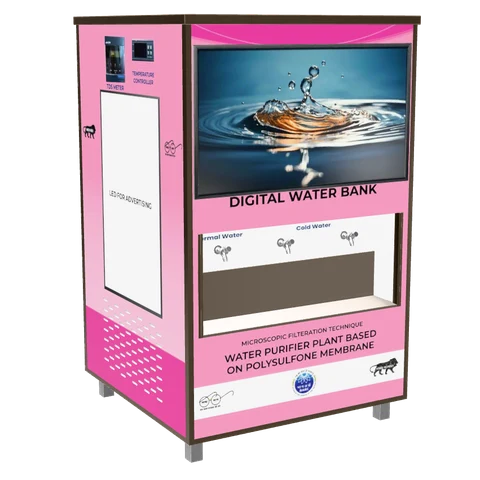
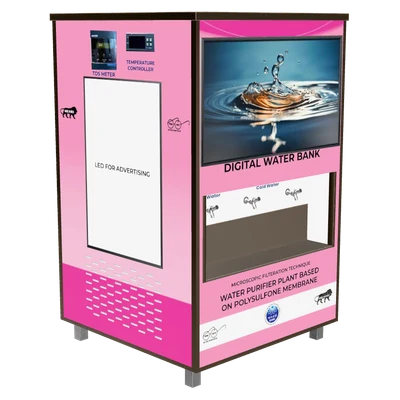
feat(imagery): slow pans with finish switching instead of 360° turntables
Full rotations read as toys; the cards now pan slowly (~30° arc) and, where
the product has real finishes, cycle them — each finish pans one way and
cross-fades into the next panning back, so motion never stops:

- Sofa: native beige → violet → pink → cream velvet
- Wardrobe: Maple Dark → Amalfi Oak Light → Cadiz Walnut → Flagstaff oak
- Water cooler: Pink → Sky Blue → White Marble → Green
- Studio apartment: pan only (its variants are camera views)

Door (variant switch) and laminates (veneer switch) unchanged. Stills and
the four affected industry OGs regenerated.

diff --git a/src/lib/industries.ts b/src/lib/industries.ts
@@ -105,11 +105,11 @@ export const INDUSTRIES: Industry[] = [
     heroDemo: 'ar',
     demoModel: '/models/furniture-vase.glb',
     demoPoster: '/models/furniture-vase-poster.webp',
-    // admin.thridify.com/p/1fxaka — Store Living Room Sofa (turntable)
+    // admin.thridify.com/p/1fxaka — Store Living Room Sofa: slow pan cycling its velvet finishes
     hubArt: {
       still: '/models/hub-furniture-still.webp',
       turn: '/models/hub-furniture-turn.webp',
-      alt: 'Store Living Room Sofa — a Thridify 3D product, rotating',
+      alt: 'Store Living Room Sofa — a Thridify 3D product panning slowly while its velvet finish changes',
     },
     primaryKeyword: '3D furniture configurator',
     keywords: [
@@ -181,11 +181,11 @@ export const INDUSTRIES: Industry[] = [
     heroDemo: 'configurator',
     demoModel: '/models/kitchen-teacup.glb',
     demoPoster: '/models/kitchen-teacup-poster.webp',
-    // admin.thridify.com/p/dcnt2x — Modern Wardrobe, Maple Dark finish (sway)
+    // admin.thridify.com/p/dcnt2x — Modern Wardrobe: slow pan cycling its laminate finishes
     hubArt: {
       still: '/models/hub-wardrobe-still.webp',
       turn: '/models/hub-wardrobe-turn.webp',
-      alt: 'Modern Wardrobe in Maple Dark — a Thridify 3D product',
+      alt: 'Modern Wardrobe — a Thridify 3D product panning slowly while its laminate finish changes',
     },
     primaryKeyword: 'modular kitchen 3D design tool',
     keywords: [
@@ -330,11 +330,11 @@ export const INDUSTRIES: Industry[] = [
     name: 'Prefab & Modular Structures',
     gridName: 'Prefab & Modular Structures',
     icon: 'prefab',
-    // admin.thridify.com/p/cmbneh — Studio Apartment, roofless dollhouse view (turntable)
+    // admin.thridify.com/p/cmbneh — Studio Apartment, roofless dollhouse view (slow pan)
     hubArt: {
       still: '/models/hub-studio-still.webp',
       turn: '/models/hub-studio-turn.webp',
-      alt: 'Studio apartment — a Thridify 3D space seen from above, rotating',
+      alt: 'Studio apartment — a Thridify 3D space seen from above, panning slowly',
     },
     heroDemo: 'viewer',
     primaryKeyword: 'prefab 3D configurator',
@@ -407,11 +407,11 @@ export const INDUSTRIES: Industry[] = [
     heroDemo: 'viewer',
     demoModel: '/models/machinery-camera.glb',
     demoPoster: '/models/machinery-camera-poster.webp',
-    // admin.thridify.com/p/34zvplz0gw8 — industrial water cooler, Pink variant (turntable)
+    // admin.thridify.com/p/34zvplz0gw8 — industrial water cooler: slow pan cycling its colour variants
     hubArt: {
       still: '/models/hub-cooler-still.webp',
       turn: '/models/hub-cooler-turn.webp',
-      alt: 'Industrial water cooler — a Thridify 3D product, rotating',
+      alt: 'Industrial water cooler — a Thridify 3D product panning slowly while its colour changes',
     },
     primaryKeyword: '3D product viewer for machinery',
     keywords: [

diff --git a/docs/ASSET-DEBT.md b/docs/ASSET-DEBT.md
@@ -23,7 +23,7 @@ entries; only the user (or real assets) can clear them.
 | 14 | Real product-render OG images (1200×630) per page | **REBUILT IN THE LUXURY DESIGN LANGUAGE (2026-09-09):** `scripts/generate-og.mjs` now renders via satori + resvg (Space Grotesk / Inter / IBM Plex Mono, fetched + cached on first run) — ink ground, layered teal + one-pink light fields, hairline orbits, mono kicker — and composites the page's OWN seamless demo poster (`public/models/*-poster.webp`, the CC0 stand-ins of #19) where one exists (home/default/platform/3D-modelling → chair; five industries → their industry model; prefab has none). Added per-page OGs for `/features`, `/what-is-thridify`, `/industries`, `/integrations` and all 12 `/integrations/<slug>` (typographic, no third-party logos). Still placeholders in the sense of #16/#19: when real client models land, re-render the posters and re-run the script. Previously: brand-colored generated statics at `public/og/*.png` (regenerate with `node scripts/generate-og.mjs`); wired via per-page `openGraph.images` + `metadataBase` (SITE_URL env, currently the workers.dev preview — switch to the production host at Phase 7). **CHUNK 3 (2026-08-02) added six per-industry OGs** `public/og/industry-<slug>.png` (furniture, modular-kitchens, doors-and-windows, prefab-structures, industrial-machinery, laminates-surfaces) — same brand-placeholder treatment; replace each with a real per-industry product render | 2, 6, 7 |
 | 15 | Real team / office / founder photography for the About page (or a decision to stay abstract) | Phase 2 removed ALL Unsplash stock (DESIGN-SPEC §6); About now uses brand logo-geometry only | 2, 6 |
 | 16 | **Real Thridify experience embeds** (the actual configurator on the actual SDK) for the hero, the BeforeAfter "live 3D", and every `CapabilityDemo` (home trio + platform) | Placeholder first-party CC0 SheenChair (`public/models/sheen-chair.glb`) driven via `<model-viewer>`. Blocked on the SDK standalone-embed work specified in `docs/integration/HERO-EMBED-REQUIREMENTS.md` + `SDK-EMBED-PROPOSAL.md` (stable experience id, `thridify-marketing` demo account, origin allowlist, poster/LCP contract, events API). When it lands: swap `<model-viewer>` for `Thridify.mount()`, and regenerate every poster from the real experience's first frame (#9 rule). Also supplies the real product photo + matching model for the BeforeAfter "flat photo vs same product in 3D" comparison | 2, 5, 6 |
-| 19 | **HUB CARDS + INDUSTRY OGs SHOW REAL THRIDIFY PRODUCTS (2026-09-09, user-selected):** `Industry.hubArt` renders (`public/models/hub-<x>-{still,turn}.webp`, 300–520 KB animated WebP + a still for reduced motion) come from the products' own GLBs rendered with `<model-viewer>` in headless Chrome: furniture → Store Living Room Sofa `p/1fxaka` (turntable); kitchens & wardrobes → Modern Wardrobe `p/dcnt2x`, default variant with its Maple Dark design texture applied (sway); doors → Door `p/gmqb_q`, all EIGHT variants rendered from one fixed camera and cross-faded (variant switch); prefab → Studio Apartment `p/cmbneh`, roofless dollhouse view from above (turntable); machinery → industrial water cooler `p/34zvplz0gw8`, Pink variant textures applied (turntable); laminates → single-wall kitchen `p/zmg1cx` cycling eight Woodlark veneers (H41, H5, H17, H28, H50, H61, H70, H1) via live base-colour swaps (finish switch). Preview ids resolve through `api.thridify.com/v2/customer/product/preview/<id>` (GLB url, variants + hiddenMeshes, design textures). Pipeline lives in the session scratchpad (`resolve.mjs`, `pick-scene.mjs` keeps one variant's root nodes, `render-turntable.mjs` with `pretex`/`swap`, `assemble.mjs`, `assemble-switch.mjs`) — re-run when products change. The CC0 stand-ins below remain ONLY as the `CapabilityDemo` fallback models. **Per-industry demo models (Phase 3 Wave A, CHUNK 3, 2026-08-02).** Each industry page now shows a DISTINCT, industry-relevant CC0 model instead of the generic hero chair, via `CapabilityDemo` `model`/`poster`/`modelLabel` props + `Industry.demoModel/demoPoster` (`src/lib/industries.ts`). All self-hosted in `public/models/`, draco+WebP-optimised ≤2MB, with seamless posters (§6). Provenance: `public/models/SOURCES.md` (all CC0 1.0, Khronos glTF-Sample-Assets). Mapping: furniture→GlassVaseFlowers (home decor, good); modular-kitchens→teacup (closest CC0 kitchenware — want a real cabinet/kitchen unit); doors-and-windows→Lantern (closest CC0 glass fixture — want a real door/window); industrial-machinery→AntiqueCamera (closest CC0 mechanical apparatus — want real equipment); laminates-surfaces→MetalRoughSpheres material sample (reasonable). **PREFAB & MODULAR STRUCTURES: NO usable CC0 structure/building model exists** (VirtualCity = testing-license-only; Sponza = LFS-gated), so `/industries/prefab-structures` still uses the chair fallback — awaiting a real structure model. ALL SIX ultimately want real client models (#16); replace + regenerate posters then | 2, 6 |
+| 19 | **HUB CARDS + INDUSTRY OGs SHOW REAL THRIDIFY PRODUCTS (2026-09-09, user-selected):** `Industry.hubArt` renders (`public/models/hub-<x>-{still,turn}.webp`, 300–520 KB animated WebP + a still for reduced motion) come from the products' own GLBs rendered with `<model-viewer>` in headless Chrome: NO full 360° turntables (they read as toys) — objects PAN slowly (≈30° arc) and, where the product has finishes, cycle them: each finish pans one way and cross-fades into the next panning back, so motion never stops (`assemble-pan.mjs`). furniture → Store Living Room Sofa `p/1fxaka`, native → violet → pink → cream velvet; kitchens & wardrobes → Modern Wardrobe `p/dcnt2x`, Maple Dark → Amalfi Oak Light → Cadiz Walnut → Flagstaff oak laminates; doors → Door `p/gmqb_q`, all EIGHT variants from one fixed camera, cross-faded; prefab → Studio Apartment `p/cmbneh`, roofless dollhouse view, pan only (its variants are camera views); machinery → industrial water cooler `p/34zvplz0gw8`, Pink → Sky Blue → White Marble → Green; laminates → single-wall kitchen `p/zmg1cx` cycling eight Woodlark veneers (H41, H5, H17, H28, H50, H61, H70, H1) via live base-colour swaps (finish switch). Preview ids resolve through `api.thridify.com/v2/customer/product/preview/<id>` (GLB url, variants + hiddenMeshes, design textures). Pipeline lives in the session scratchpad (`resolve.mjs`, `pick-scene.mjs` keeps one variant's root nodes, `render-turntable.mjs` with `pretex`/`swap`, `assemble.mjs`, `assemble-switch.mjs`) — re-run when products change. The CC0 stand-ins below remain ONLY as the `CapabilityDemo` fallback models. **Per-industry demo models (Phase 3 Wave A, CHUNK 3, 2026-08-02).** Each industry page now shows a DISTINCT, industry-relevant CC0 model instead of the generic hero chair, via `CapabilityDemo` `model`/`poster`/`modelLabel` props + `Industry.demoModel/demoPoster` (`src/lib/industries.ts`). All self-hosted in `public/models/`, draco+WebP-optimised ≤2MB, with seamless posters (§6). Provenance: `public/models/SOURCES.md` (all CC0 1.0, Khronos glTF-Sample-Assets). Mapping: furniture→GlassVaseFlowers (home decor, good); modular-kitchens→teacup (closest CC0 kitchenware — want a real cabinet/kitchen unit); doors-and-windows→Lantern (closest CC0 glass fixture — want a real door/window); industrial-machinery→AntiqueCamera (closest CC0 mechanical apparatus — want real equipment); laminates-surfaces→MetalRoughSpheres material sample (reasonable). **PREFAB & MODULAR STRUCTURES: NO usable CC0 structure/building model exists** (VirtualCity = testing-license-only; Sponza = LFS-gated), so `/industries/prefab-structures` still uses the chair fallback — awaiting a real structure model. ALL SIX ultimately want real client models (#16); replace + regenerate posters then | 2, 6 |
 | 18 | **Positioning correction — "3D Content Generation" → "3D Modelling Service" (Phase 3 Wave A, CHUNK 1, 2026-08-02).** Thridify does NOT do automated 3D content generation; module #4 is now a human-delivered **3D Modelling Service** (catalog → photoreal glTF/GLB/USDZ, done-for-you). Replaced sitewide: `content/site.json` (platform product #4 id `content`→`modelling`, platform hero subtitle, about mission body, furniture industry blurb, footer Platform link → `/services/3d-modelling`); `ProductVisual` variant `content`→`modelling`; `/platform` metadata + a deep-dive link to the service page; new SEO page `src/app/services/3d-modelling/page.tsx` (Service + FAQPage + BreadcrumbList JSON-LD, wedge copy) added to sitemap + linked from every industry page; new OG `public/og/services-3d-modelling.png`. **KNOWLEDGE-BANK CORRECTION NEEDED (out of repo scope — orchestrator action):** the `thridify-business` KNOWLEDGE-BANK skill still lists "3D Content Generation" as product #4 and must be corrected to "3D Modelling Service" so future generations don't reintroduce the automated-content-gen claim | done — verify KB corrected before Phase 7 |
 | 20 | **`/robots.txt` + `/llms.txt` platform-edge interception + Cloudflare content-signals robots (Phase 3 Wave B, CHUNK 4, 2026-08-03).** The site now serves its own `/robots.txt` (AI-crawler allowlist: OAI-SearchBot, ChatGPT-User, GPTBot, ClaudeBot, Claude-Web, Google-Extended, PerplexityBot, Applebot-Extended + `Sitemap:` ref) and `/llms.txt` (canonical description + factual bullets) via route handlers (`src/app/robots.txt/route.ts`, `src/app/llms.txt/route.ts`). **Two edge caveats, NOT fixable in this repo:** (a) On the platform host `team-website-moj7aqqd.sites.tyashin.com`, the Tyashin platform edge INTERCEPTS **`/robots.txt`, `/sitemap.xml` AND `/llms.txt`** (same mechanism as `/blog`, #17 — no `X-Robots-Tag` on those responses proves our Worker never ran) and serves platform-owned versions: a generic `User-agent: *` robots, a 3-URL default sitemap (`/`, `/contact`, `/about` only — NOT our 19-URL sitemap), and a 404 for `/llms.txt`. Normal HTML pages (incl. the new `/what-is-thridify` and `/compare/*`) DO dispatch to our Worker on this host and are correct; only these three SEO endpoints are edge-owned. **Phase-7 action (platform admin):** set the per-page ownership override to `storefront` for `/robots.txt`, `/sitemap.xml` and `/llms.txt` so the site's own Worker serves them on any custom domain routed through the platform edge. The raw worker host serves all three correctly today (verified 2026-08-03: robots ours + all 8 AI bots + Sitemap ref; llms.txt 200 with canonical description; sitemap 19 URLs). (b) On the raw worker host `site-thridify.snowy-cherry-cd2c.workers.dev`, `/robots.txt` may be overridden by Cloudflare's managed "content-signals" robots.txt (a workers.dev-level feature) — confirm our route wins after this deploy; if not, it is a Cloudflare zone setting, not a repo defect. **Both are Phase-7 verification items on the real production host.** | 7 |
 | 21 | **Growth-surface canonical/OG/llms URLs still point at the preview host.** `/what-is-thridify`, `/compare/*`, `/llms.txt` and all new schema `url`/`sameAs`/breadcrumb `item` values resolve against `SITE_URL` (currently the workers.dev preview). The Phase-7 cutover must set `SITE_URL=https://www.thridify.com` (or the chosen canonical host) in the deploy env so every canonical, OG, sitemap and llms.txt URL flips together. Logged, not blocking (per contract). | 7 |
